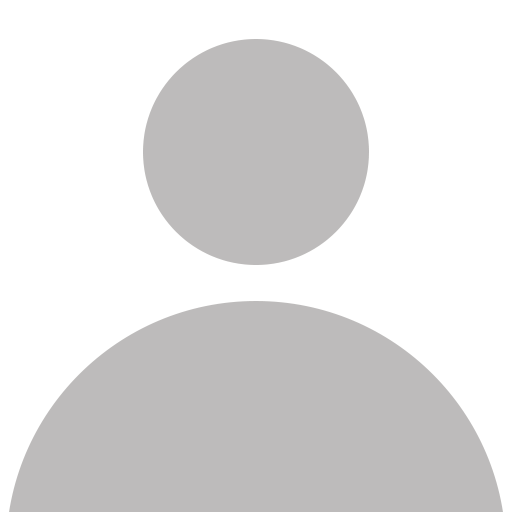
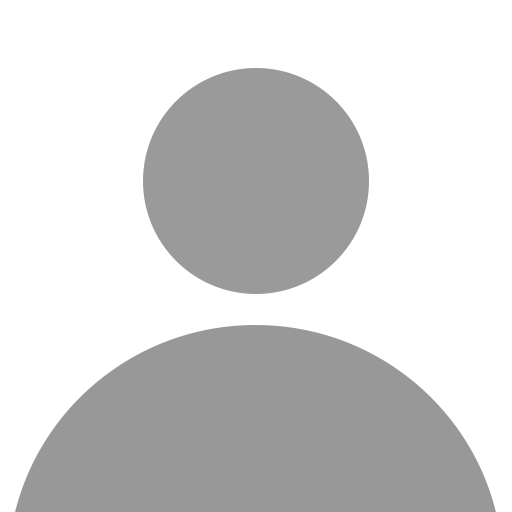
ProfilePictureDefault changed / css modified

diff --git a/src/containers/App.css b/src/containers/App.css
@@ -169,7 +169,8 @@ input:hover, input:focus{
   background-size: cover;
   background-position: center;
   display: flex;
-  border-radius: 0px;
+  border-radius: 500px;
+  box-shadow: var(--color-light2) 0 0 0 5px inset, var(--color-light) 0 0 0 8px inset;
   min-width: 102%;
   height: 102%;
 }
